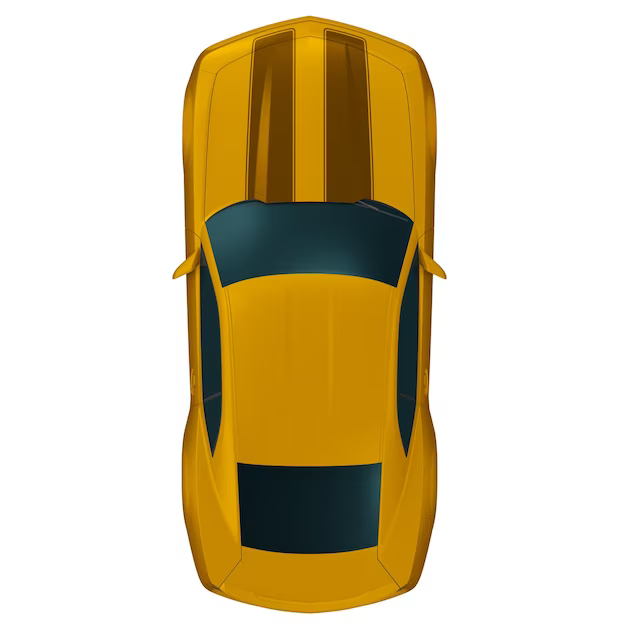
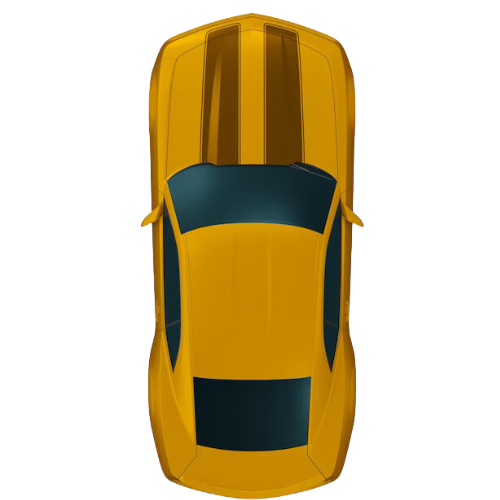
Přidána závodní dráha pro auto

Changed region(s): [[0.27, 0.03, 0.72, 1.0], [0.3, 0.84, 0.33, 0.93], [0.48, 0.0, 0.51, 0.03]]

diff --git a/Web/zavodit.html b/Web/zavodit.html
@@ -19,6 +19,7 @@
     <img src="./img/car.png" alt="">
 
     <img src="./img/car.png" alt="" id="car">
+    <img src="./img/draha.png" alt="" id="track">
   </div>
 
 
@@ -41,19 +42,22 @@
 
 
   <!-- Hlavní tělo stránky -->
+
+
+
+<!-- Horní panel -->
+<div class="row">
+  <div class="animace">
+    <h1>Vyzkoušejte motor aplikovaný v praxi</h1>
+    <p>V tomto simulátoru si můžete vyzkoušet jezdit s autem 4 směry. Je to nejčastější a nejdůležitější aplikace motoru v reálném světě. Bez něj by transport jaký známe dnes neexistoval.</p>
+    <p>Pro řízení auta použijte tlačítka W, A, S, D</p>
+  </div>  
+  </div>
+
 <canvas id="game" width="1000" height="600px">
     
 </canvas>
-<button id="rotate" onclick="rotate(-speed)">rotate right</button>
-<button id="stop" onclick="stop()">stop</button>
-<button id="rotate" onclick="rotate(speed)">rotate left</button>
 
-<button id="move" onclick="move(-speed, 0)">move left</button>
-<button id="move" onclick="move(speed, 0)">move right</button>
-<!-- Article -->
-<article>
-  
-</article>
 
 <!-- Footer -->
 <div class="footer">

diff --git a/Web/racing.js b/Web/racing.js
@@ -1,19 +1,27 @@
 const canvas = document.getElementById("game")
 const ctx = canvas.getContext("2d")
 const car = document.getElementById("car")
+const track = document.getElementById("track")
 
-let posX = 10
-let posY = 10
+let posX = 620
+let posY = 465
 
-let speed = 5
+
+let speed = 3
 let speedX = 0
 let speedY = 0
 
 let cenX = posX + 40
 let cenY = posY + 40
 let direction = 0
+
+
+carRotate(-90)
+
+
 function draw(){
     ctx.clearRect(0, 0, canvas.width, canvas.height)
+    ctx.drawImage(track, 0, 0, canvas.width, canvas.height)
     cenX = posX + 40
     cenY = posY + 40
     ctx.translate(cenX, cenY); // Posun na střed auta

diff --git a/Web/index.html b/Web/index.html
@@ -33,7 +33,7 @@
       <a id="tl5" href="zavodit.html">Závodit</a>
     </div>
 
-  <!-- Boční paneů -->
+  <!-- Boční panel -->
     <div class="row">
       <div class="animace">
         <h2>Poslední příspěvky</h2>
